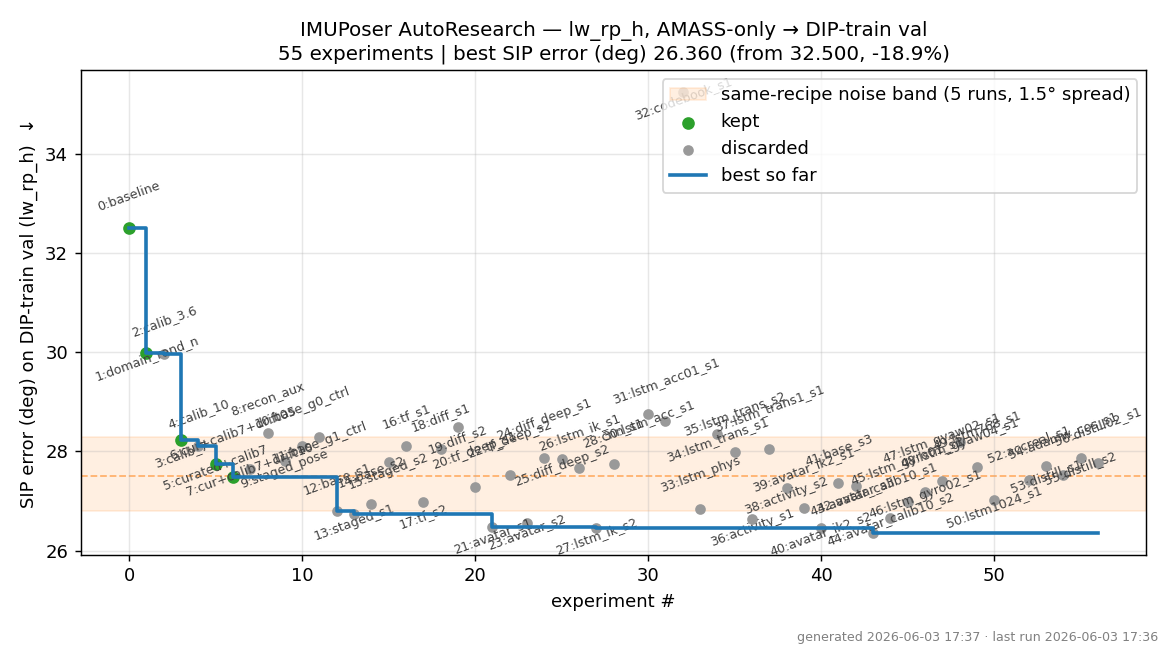
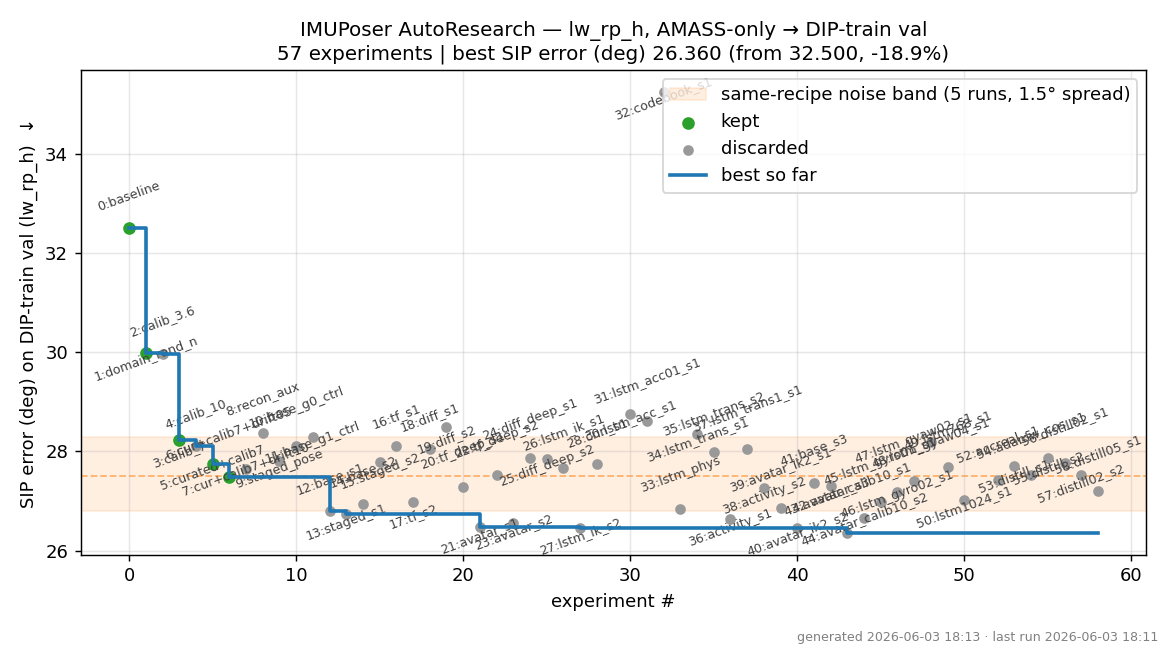
ar exp57-58: distillation full sweep is a NULL (weight-independent +0.7-1.0deg)
DISTILL_W 0.2/0.5/1.0 all 27.2-27.9 vs LSTM 26.8 -> 3-IMU student can't match 5-IMU teacher on
un-inferable DOFs. Window-length sweep (150/600) running.

diff --git a/ADDITIONAL_EXPERIMENTS.md b/ADDITIONAL_EXPERIMENTS.md
@@ -434,3 +434,10 @@ kinematic. (AUG_ACC_BIAS/SCALE added.) If that's also neutral, data-realism = ca
   augmentation just adds noise.
 - bigger-LSTM nulls + these confirm: the lever is sensor-realism via CALIBRATION + the IK loss; capacity,
   drift, accel-noise, naive distillation don't help.
+
+### Distillation full weight sweep -> NULL (5->3 IMU gap is fundamental)
+DISTILL_W 0.2/0.5/1.0 x 2 seeds all land 27.2-27.9 vs LSTM 26.79/26.93 = consistently +0.7 to +1.0 WORSE,
+weight-independent. The 3-IMU student cannot match the 5-IMU teachers pose on DOFs that need the missing
+sensors (rw, lp), so any pull toward the teacher wastes its limited capacity. Naive privileged distillation
+does not transfer the 5-IMU headroom here. (Selective distillation on only the inferable joints might, but
+the consistent weight-independent hurt suggests the gap is fundamental to the sensor set.)
